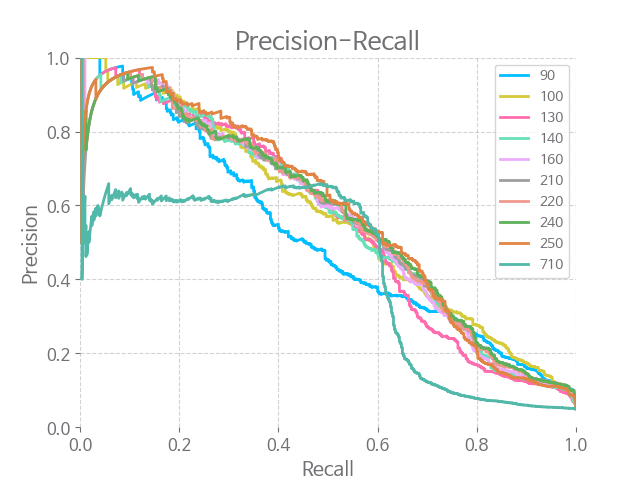
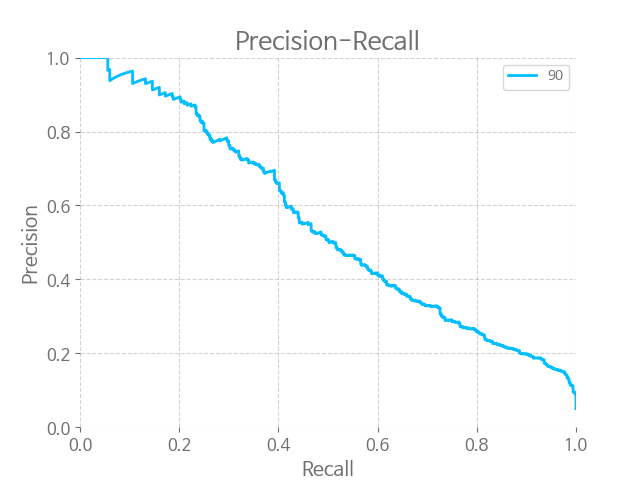
Add Test Results

diff --git a/code/.ipynb_checkpoints/train-checkpoint.py b/code/.ipynb_checkpoints/train-checkpoint.py
@@ -56,12 +56,18 @@ def train(opt):
 #         print(train_set[0]['relation_multi_label'])
         dev_set = BERTDGLREDataset(opt.dev_set, opt.dev_set_save, opt.word2id, ner2id, opt.rel2id, dataset_type='dev',
                                    instance_in_train=train_set.instance_in_train, opt=opt)
+    
+        test_set = BERTDGLREDataset(opt.test_set, opt.test_set_save, opt.word2id, ner2id, opt.rel2id, dataset_type='test',
+                                   instance_in_train=train_set.instance_in_train, opt=opt)
+    
+    
         # dataloaders
         train_loader = DGLREDataloader(train_set, batch_size=opt.batch_size, shuffle=True,
                                        negativa_alpha=opt.negativa_alpha, relation_num=opt.relation_nums)
         dev_loader = DGLREDataloader(dev_set, batch_size=opt.test_batch_size, dataset_type='dev', relation_num=opt.relation_nums)
 #         model = GAIN_BERT(opt)
 
+        test_loader = DGLREDataloader(test_set, batch_size=opt.test_batch_size, dataset_type='test', relation_num=opt.relation_nums)
 
     else:
         assert 1 == 2, 'please choose a model from [bert, bilstm].'
@@ -277,6 +283,7 @@ def train(opt):
                 start_time = time.time()
 
         if epoch % opt.test_epoch == 0:
+            logging('VAL!!!!!!!!!!!!!!!!!!!!!!!!!!!!!!!!!!')
             logging('-' * 89)
             eval_start_time = time.time()
             model.eval()
@@ -303,7 +310,30 @@ def train(opt):
                 plt.legend(loc="upper right")
                 model_name = model_name.replace(".", "_")
                 plt.savefig(os.path.join(fig_result_dir, model_name))
+            logging('VAL FINISH!!!!!!!!!!!!!!!!!!!!!!!!!!!!!')
+                
+        if epoch == opt.epoch:
+            logging('TEST!!!!!!!!!!!!!!!!!!!!!!!!!!!!!!!!!!!!')
+            logging('-' * 89)
+            eval_start_time = time.time()
+            model.eval()
+            ign_f1, ign_auc, pr_x, pr_y = test(model, test_loader, model_name, id2rel=id2rel, relation_num=opt.relation_nums)
+#             model.train()
+            logging('| epoch {:3d} | time: {:5.2f}s'.format(epoch, time.time() - eval_start_time))
+            logging('-' * 89)
 
+            if True:
+                path = os.path.join(checkpoint_dir, model_name + '_last.pt')
+                torch.save({
+                    'epoch': epoch,
+                    'checkpoint': model.state_dict(),
+                    'lr': lr,
+                    'best_ign_f1': ign_f1,
+                    'best_ign_auc': ign_auc,
+                    'best_epoch': epoch
+                }, path)
+            logging('TEST FINISH!!!!!!!!!!!!!!!!!!!!!!!!!!!!!')
+                
         if epoch % opt.save_model_freq == 0:
             path = os.path.join(checkpoint_dir, model_name + '_{}.pt'.format(epoch))
             torch.save({
@@ -326,7 +356,4 @@ if __name__ == '__main__':
     opt.data_word_vec = word2vec
     train(opt)
     print("FINISH!!!!!")
-    print("sys.exit")
-    import sys
-    sys.exit()
-    print("sys.exit")
+

diff --git a/code/train.py b/code/train.py
@@ -56,12 +56,18 @@ def train(opt):
 #         print(train_set[0]['relation_multi_label'])
         dev_set = BERTDGLREDataset(opt.dev_set, opt.dev_set_save, opt.word2id, ner2id, opt.rel2id, dataset_type='dev',
                                    instance_in_train=train_set.instance_in_train, opt=opt)
+    
+        test_set = BERTDGLREDataset(opt.test_set, opt.test_set_save, opt.word2id, ner2id, opt.rel2id, dataset_type='test',
+                                   instance_in_train=train_set.instance_in_train, opt=opt)
+    
+    
         # dataloaders
         train_loader = DGLREDataloader(train_set, batch_size=opt.batch_size, shuffle=True,
                                        negativa_alpha=opt.negativa_alpha, relation_num=opt.relation_nums)
         dev_loader = DGLREDataloader(dev_set, batch_size=opt.test_batch_size, dataset_type='dev', relation_num=opt.relation_nums)
 #         model = GAIN_BERT(opt)
 
+        test_loader = DGLREDataloader(test_set, batch_size=opt.test_batch_size, dataset_type='test', relation_num=opt.relation_nums)
 
     else:
         assert 1 == 2, 'please choose a model from [bert, bilstm].'
@@ -277,6 +283,7 @@ def train(opt):
                 start_time = time.time()
 
         if epoch % opt.test_epoch == 0:
+            logging('VAL!!!!!!!!!!!!!!!!!!!!!!!!!!!!!!!!!!')
             logging('-' * 89)
             eval_start_time = time.time()
             model.eval()
@@ -303,7 +310,30 @@ def train(opt):
                 plt.legend(loc="upper right")
                 model_name = model_name.replace(".", "_")
                 plt.savefig(os.path.join(fig_result_dir, model_name))
+            logging('VAL FINISH!!!!!!!!!!!!!!!!!!!!!!!!!!!!!')
+                
+        if epoch == opt.epoch:
+            logging('TEST!!!!!!!!!!!!!!!!!!!!!!!!!!!!!!!!!!!!')
+            logging('-' * 89)
+            eval_start_time = time.time()
+            model.eval()
+            ign_f1, ign_auc, pr_x, pr_y = test(model, test_loader, model_name, id2rel=id2rel, relation_num=opt.relation_nums)
+#             model.train()
+            logging('| epoch {:3d} | time: {:5.2f}s'.format(epoch, time.time() - eval_start_time))
+            logging('-' * 89)
 
+            if True:
+                path = os.path.join(checkpoint_dir, model_name + '_last.pt')
+                torch.save({
+                    'epoch': epoch,
+                    'checkpoint': model.state_dict(),
+                    'lr': lr,
+                    'best_ign_f1': ign_f1,
+                    'best_ign_auc': ign_auc,
+                    'best_epoch': epoch
+                }, path)
+            logging('TEST FINISH!!!!!!!!!!!!!!!!!!!!!!!!!!!!!')
+                
         if epoch % opt.save_model_freq == 0:
             path = os.path.join(checkpoint_dir, model_name + '_{}.pt'.format(epoch))
             torch.save({
